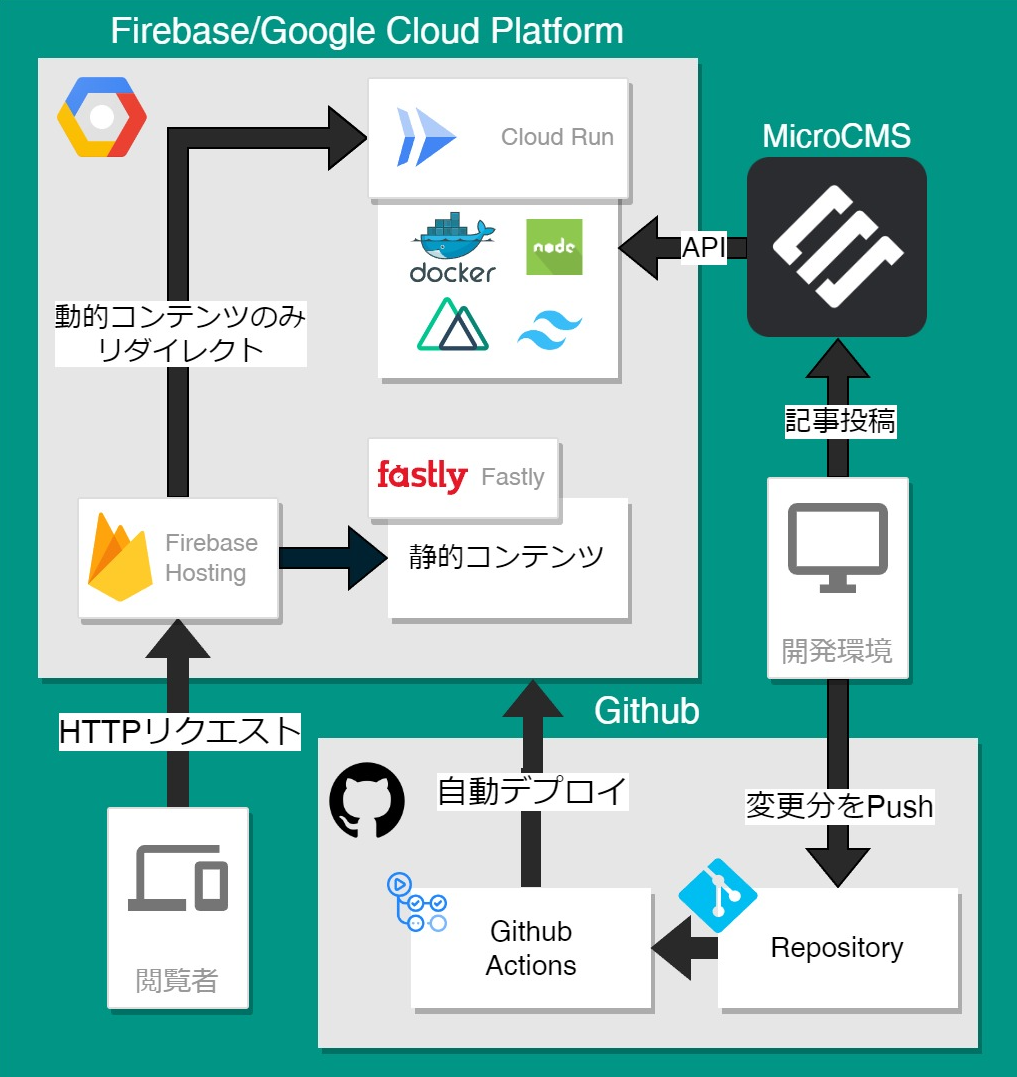
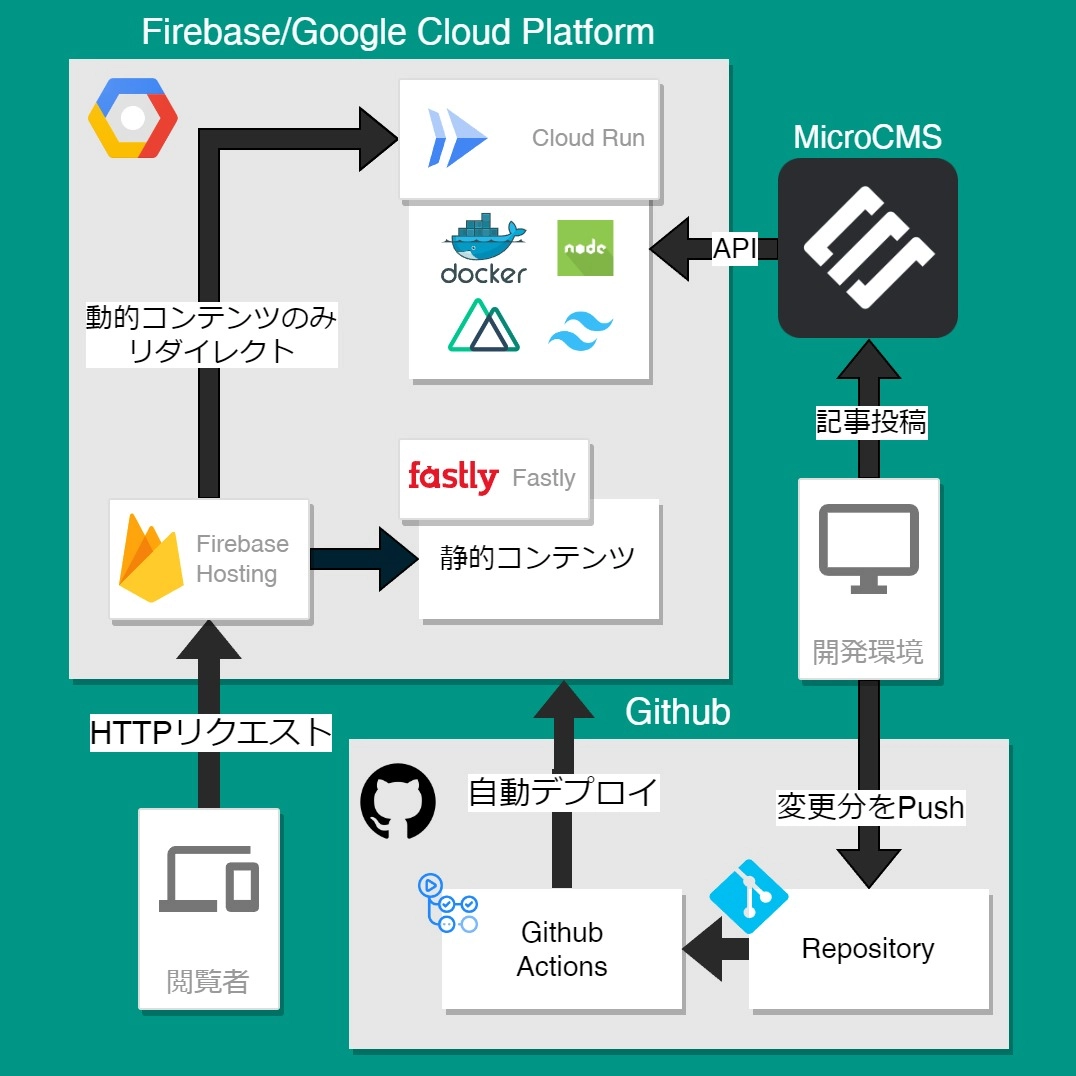
画像の差し替えと位置調整

Changed region(s): [[0.0305, 0.0, 0.9754, 0.9814], [0.3963, 0.184, 0.4877, 0.3374], [0.3048, 0.092, 0.4572, 0.2147]]

diff --git a/pages/index.vue b/pages/index.vue
@@ -63,17 +63,20 @@
           About this web site
         </AppHeading2>
         <div class="flex flex-col-reverse gap-4 lg:flex-row">
-          <div class="flex flex-col items-center justify-center w-1/2">
-            <NuxtPicture
-              src="/images/webp/diagram.webp"
-              legacy-format="jpeg"
-              class="w-96 h-96"
-              :img-attrs="{ alt: '当Webサイトの構成図', height: 400, width: 400, decoding: 'async' }"
-            />
-            <p class="w-full text-sm text-center">
-              当Webサイトの構成図
-            </p>
+          <div class="flex flex-col items-start justify-center">
+            <div class="flex flex-col items-center justify-center">
+              <NuxtPicture
+                src="/images/webp/diagram.webp"
+                legacy-format="jpeg"
+                class="diagram"
+                :img-attrs="{ alt: '当Webサイトの構成図', height: 500, width: 500, decoding: 'async',class:'diagram-inner' }"
+              />
+              <p class="w-full text-sm text-center">
+                当Webサイトの構成図
+              </p>
+            </div>
           </div>
+
           <div class="grid gap-2 w-1/2">
             <CommonAppApra>
               このWebサイトは"<span class="font-bold">Hata_kaze</span>"が趣味で色々フロントエンドの実験をしたり、ブログをやったりする個人サイトです。
@@ -225,4 +228,15 @@ const games = ref<LinkParams[]>(
 
 </script>
 
-<style></style>
+<style scoped>
+.diagram{
+  width: 500px;
+  height: 500px;
+}
+
+.diagram-inner{
+  width: 100%;
+  height: 100%;
+}
+
+</style>
